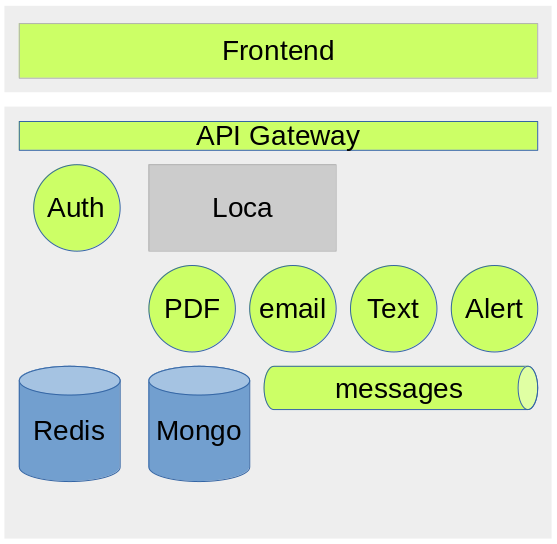
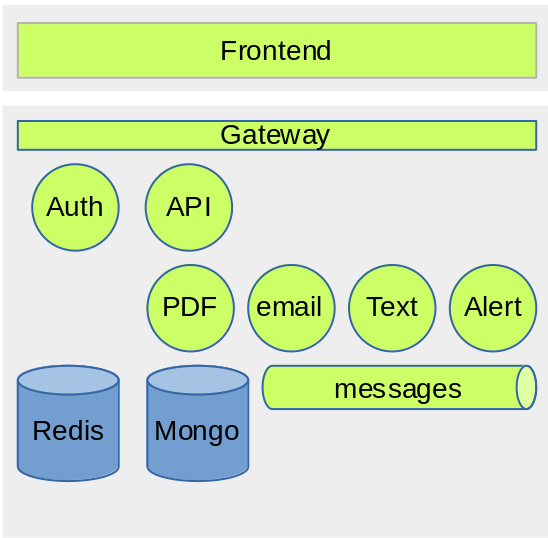
added api module which replaces loca

diff --git a/DEVELOPER.md b/DEVELOPER.md
@@ -2,26 +2,22 @@
 
 Microrealestate is a set of microservices which work together to offer an open source application for property management.
 
-This application draws its fundamentals from a monolithic application: [Loca](https://github.com/camelaissani/loca)
-
-The first objective is to combine the monolith application and the microservices to provide new functionalities.
+This application draws its fundamentals from the monolithic application: [Loca](https://github.com/camelaissani/loca)
 
 ![overview](./picture/overview.png)
 
 | µService                                                              | Description                                                                                                      | Status          |
 | :-------------------------------------------------------------------- | :--------------------------------------------------------------------------------------------------------------- | :-------------: |
-| [API Gateway](./config/nginx/etc/conf.d)                              | Routes HTTP requests to the services (NGINX)                                                                     | Available       |
+| [Gateway](./config/nginx/etc/conf.d)                                  | Routes HTTP requests to the services (NGINX)                                                                     | Available       |
 | [Frontend](https://github.com/microrealestate/frontend)               | The web application                                                                                              | Dev in progress |
 | [Authenticator](https://github.com/microrealestate/authenticator)     | Handles login/logout and tokens management                                                                       | Available       |
 | [EMailer](https://github.com/microrealestate/emailer)                 | Generates and sends emails with [mailgun](https://www.mailgun.com/)                                              | Available       |
-| [Loca](https://github.com/camelaissani/loca)                          | Exposes UI API and core engine (former web application)                                                          | Available       |
+| [API](https://github.com/microrealestate/api)                         | Exposes UI API and core engine                                                                                   | Available       |
 | [PDFGenerator](https://github.com/microrealestate/pdfgenerator)       | Generates PDF documents (letters, contracts, invoices...)                                                        | Available       |
 | Messages                                                              | message broker                                                                                                   | Not available   |
 | Alert                                                                 | Sends alert messages based on business rules (contract deadlines, unpaid rents...)                               | Not available   |
 | Text                                                                  | Generates and texts (cash balance, alerts...)                                                                    | Not available   |
 
-
-In a second stage, the monolith application (Loca) will be deprecated and the API and the core engine will be moved in a dedicated repository.
 
 ## Debugging the application
 
@@ -59,7 +55,7 @@ Next, go to the debug bar:
 
 Then select one of these values to attach the VS Code debugger to the application:
 
-- `Docker: Attach to Loca` (Exposes the UI API and core engine)
+- `Docker: Attach to API` (Exposes the UI API and core engine)
 - `Docker: Attach to Authenticator` (Handles the authentication)
 - `Docker: Attach to Emailer` (Sends emails)
 - `Docker: Attach to PdfGenerator` (Generates PDF documents)
